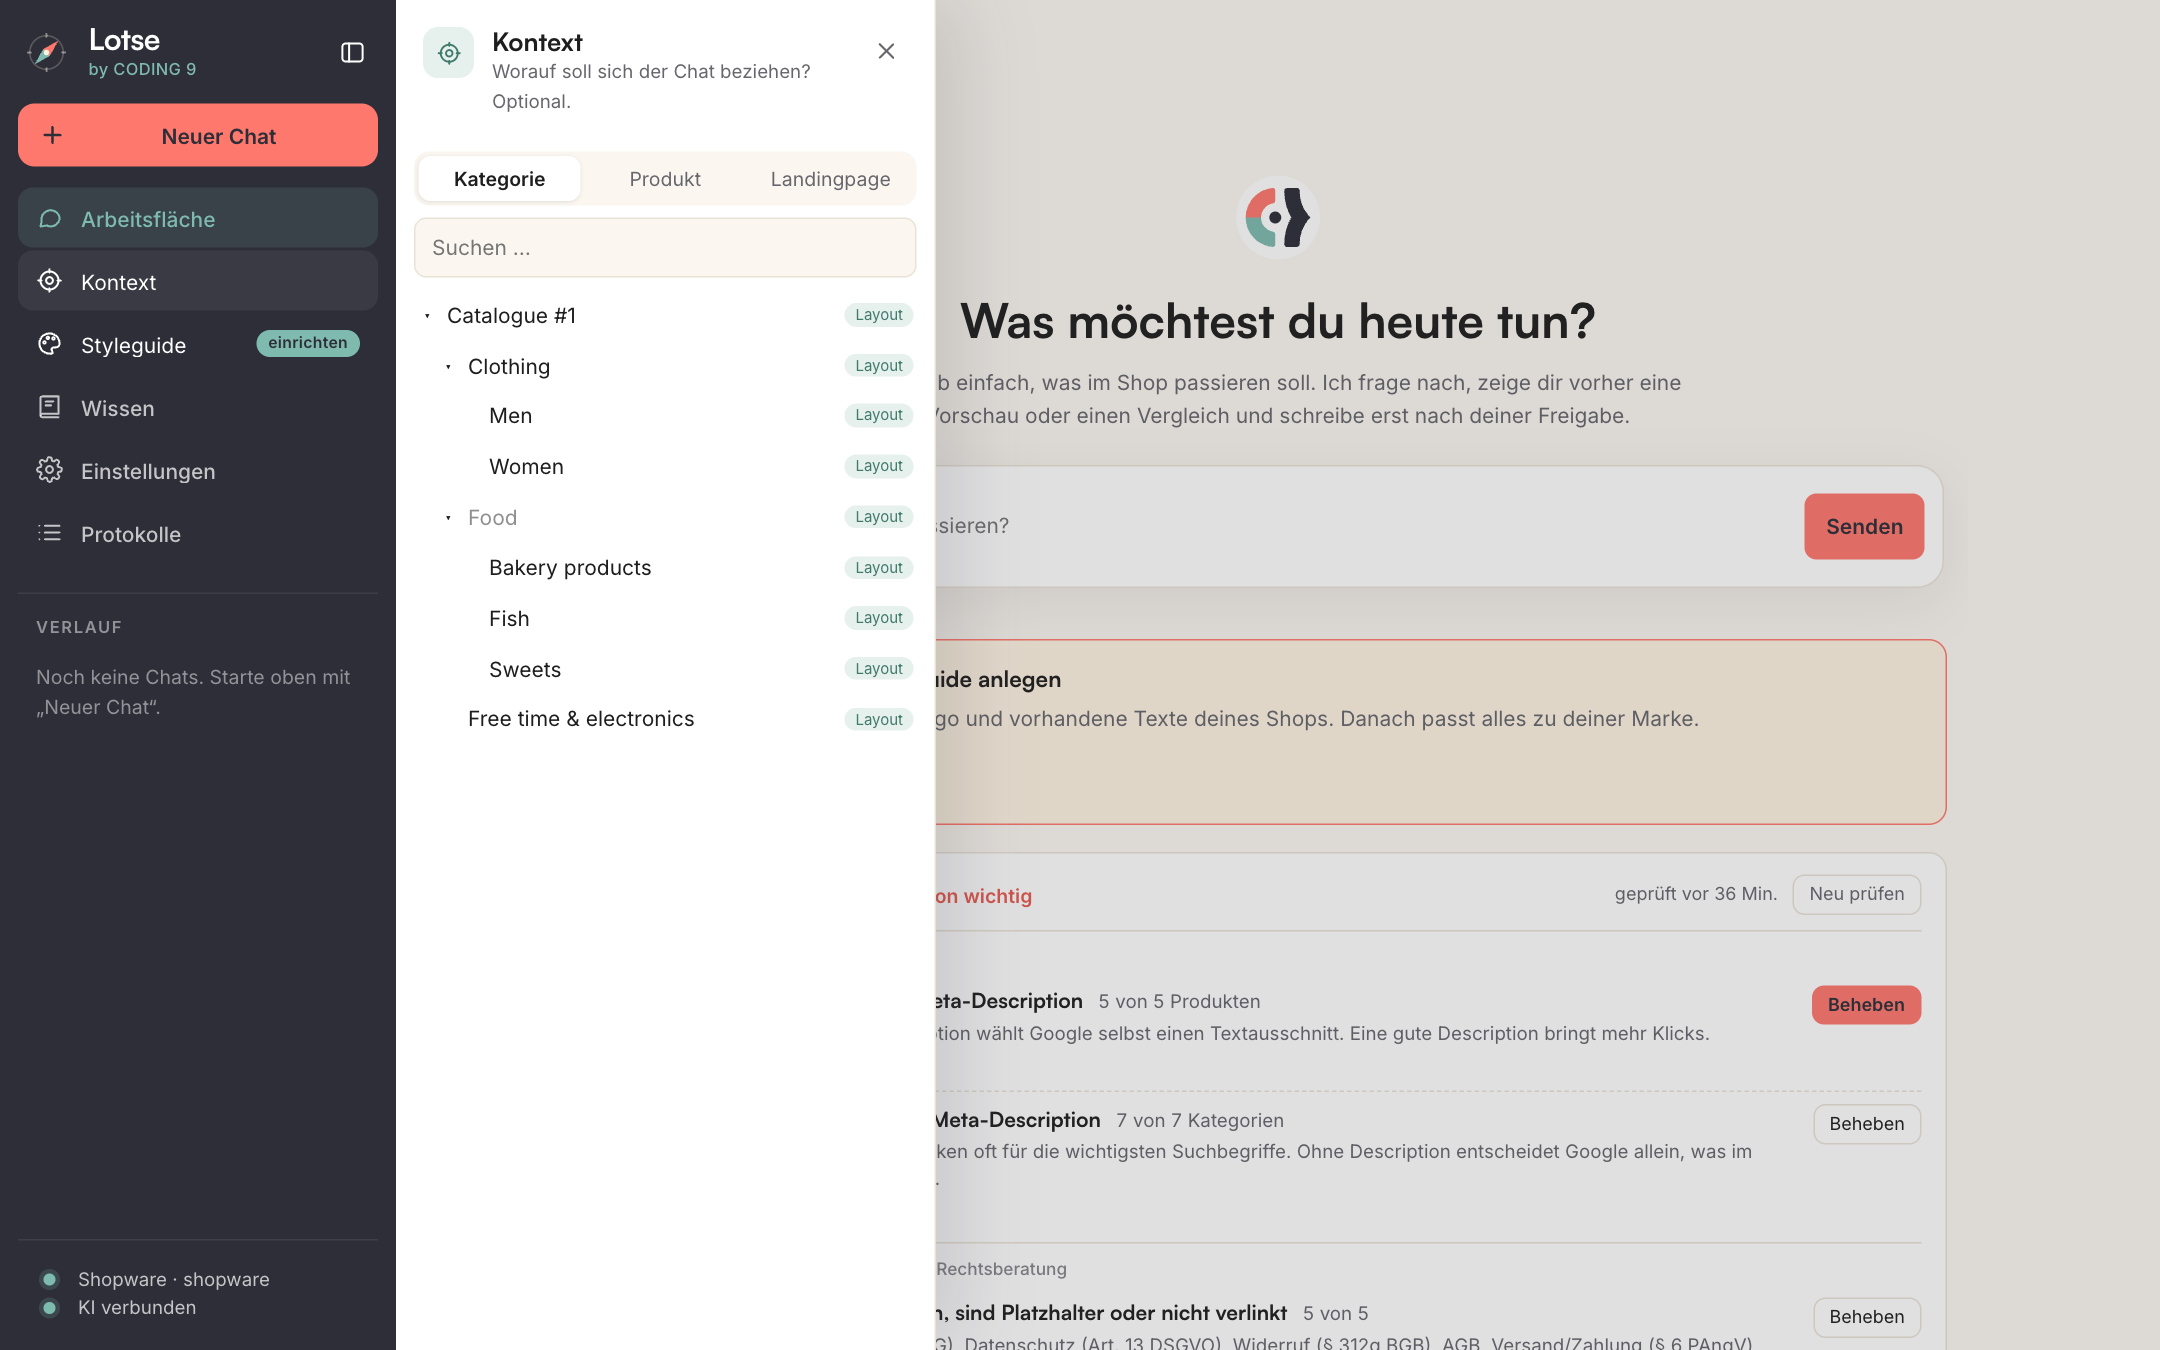
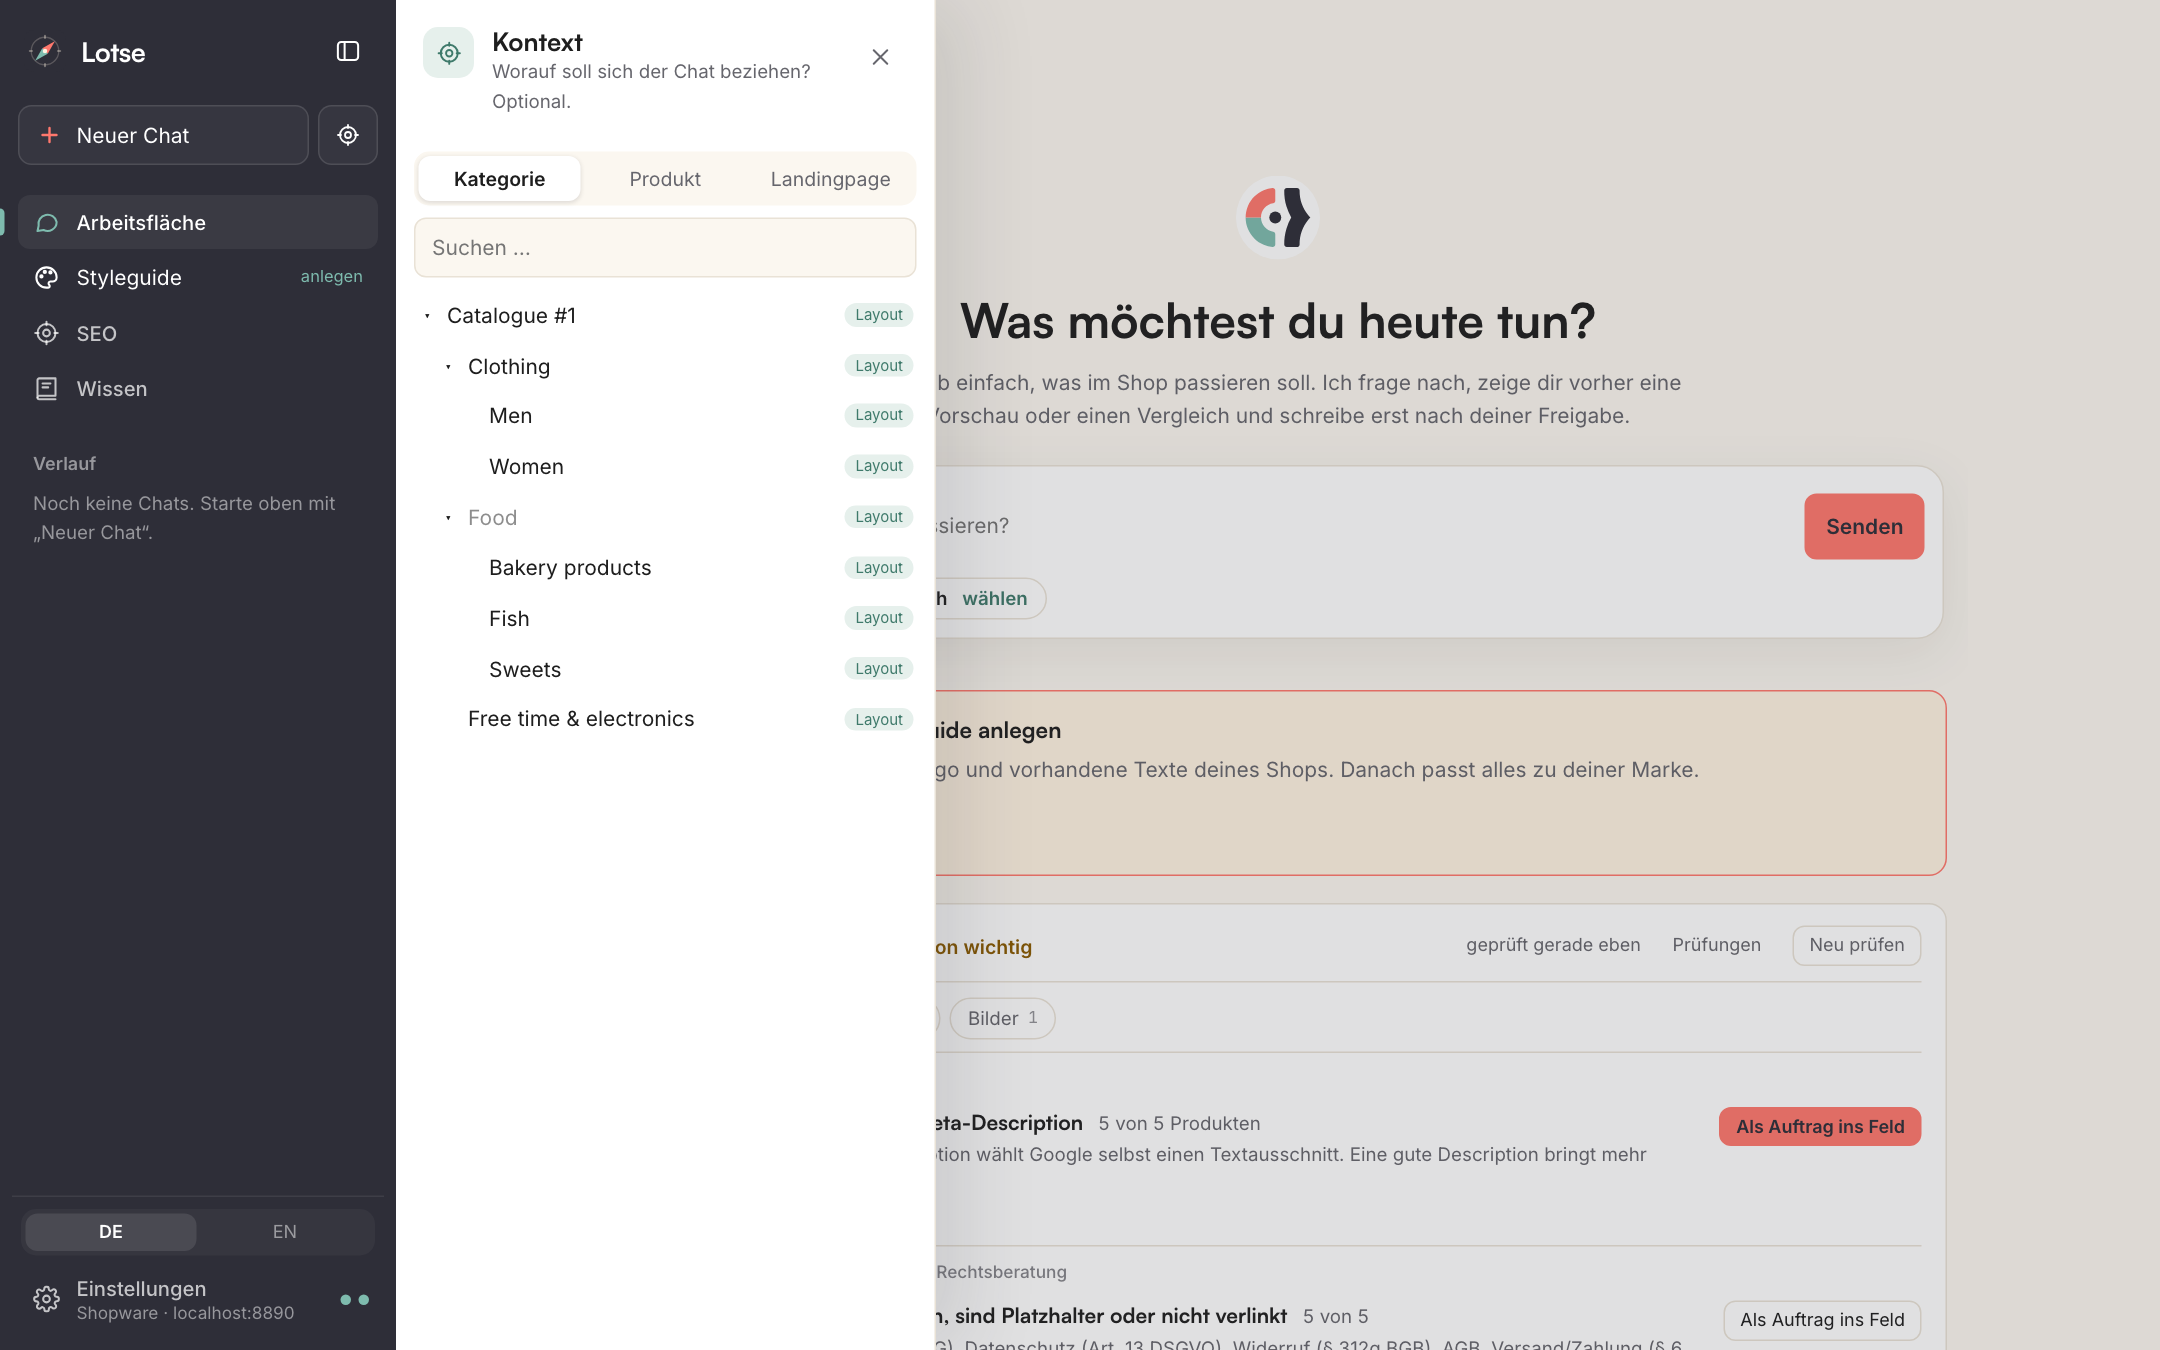
README: SEO-Bereich, Abverkauf, Kostenbremse, ZIP-Karte, neue Screenshots
Screenshots aus einer frischen Lotse-Instanz mit leerem Datenvolume und dem Dockware-Demo-Shop; neu: SEO-Bereich. AGENTS.md: Überschrift, wie sie next dev schreibt.

diff --git a/README.md b/README.md
@@ -13,11 +13,11 @@ Seiten & Einkaufswelten, Preise, Texte & SEO per Chat. Die KI liest nur, geschri
 
 ## Screenshots
 
-| Arbeitsfläche mit Shop-Check | Kontext wählen | KI-Zugriff je Bereich |
-|---|---|---|
-| <img src="docs/screenshots/app.png" alt="Arbeitsfläche" width="300"> | <img src="docs/screenshots/app-context.png" alt="Kontext-Auswahl" width="300"> | <img src="docs/screenshots/ki-zugriff.png" alt="KI-Zugriff: Bereiche des Shops einzeln freigeben" width="300"> |
+| Arbeitsfläche mit Shop-Check | SEO-Bereich | Kontext wählen | KI-Zugriff je Bereich |
+|---|---|---|---|
+| <img src="docs/screenshots/app.png" alt="Arbeitsfläche" width="220"> | <img src="docs/screenshots/seo.png" alt="SEO-Bereich: technische Probleme und offene Hebel mit „Optimieren“" width="220"> | <img src="docs/screenshots/app-context.png" alt="Kontext-Auswahl" width="220"> | <img src="docs/screenshots/ki-zugriff.png" alt="KI-Zugriff: Bereiche des Shops einzeln freigeben" width="220"> |
 
-<sub>Screenshots aus dem Demo-Shop (Dockware). Das Video zeigt einen Beispiel-Entwurf mit fiktiver Marke und eigenen Illustrationen.</sub>
+<sub>Screenshots aus einer frischen Lotse-Instanz mit dem Demo-Shop (Dockware), deutsche Oberfläche. Das Video zeigt einen Beispiel-Entwurf mit fiktiver Marke und eigenen Illustrationen.</sub>
 
 ## Schnellstart (Docker)
 
@@ -124,6 +124,10 @@ Chat statt Formulare. Du schreibst, was passieren soll („Ändere das Layout vo
 - **Chat-Start mit Beispielen**, Rückfragen mit Antwort-Buttons, Verlauf. Optionaler Kontext (Kategorie/Produkt wählen) mit Direktlinks ins Admin/Storefront.
 - **Massenänderungen** (Preise, Streichpreise, Bestand, Aktiv, Texte, SEO) mit serverseitig gerechneten Preisregeln, Warnungen (z. B. −99 %), Zeilen-Auswahl, Audit-Log und Rückgängig.
 - **Produktindividuelle Blöcke** (FAQ): gemeinsames PDP-Layout mit Block `pdp-faq`, Inhalt je Produkt im JSON-Zusatzfeld `aicb_blocks` (mit FAQPage-Schema).
+- **SEO-Bereich**: Liest Search Console und Sistrix, prüft Seiten technisch (noindex, Canonical, Title, H1, strukturierte Daten) und listet, was sich am ehesten lohnt: Suchanfragen kurz vor Seite 1, Seiten, die sich gegenseitig Rankings wegnehmen, Klickverluste, Seiten mit defekten Bildern, Dateien oder Links. „Optimieren“ legt den fertigen Auftrag in den Chat; die **Wirkungsmessung** zeigt danach je Änderung, was sie gebracht hat.
+- **Abverkauf** (standardmäßig aus): Top-Seller und Ladenhüter aus Summen je Produkt, nie aus Kunden oder einzelnen Bestellungen.
+- **Kostenbremse**: Monatsbudget für Claude; Hinweis im Chat ab 80 %, ist es erreicht, startet keine neue Runde.
+- **Internetrecherche** (standardmäßig aus): Die KI schlägt auf Wunsch öffentliche Seiten nach, etwa Datenblätter von Herstellern, und nennt die Quelle.
 - **Styleguide-Onboarding**: Die KI analysiert Theme-Konfiguration, Storefront-CSS, Logo und echte Texte → gespeichert in der Datenbank. Wirkt auf Texte, Farben, Vorschau und die CSS-Variablen (`--sg-*`) in Custom-HTML.
 - **Layout mit Bereichswahl** (Shopware): ein Layout für eine Kategorie, einzelne Produkte, alle Produkte einer Kategorie oder den ganzen Shop. Lotse fragt vorher mit echten Zahlen, die Freigabe zeigt, wie viele Seiten ein eigenes Layout verlieren, und Rückgängig stellt jede Seite einzeln wieder her.
 - **Entwurf auf der echten Seite**: Kopf, Fuß, Theme, Kaufbox und Produktliste der Zielseite bleiben, nur der Inhalt wird durch den Entwurf ersetzt (Shopware: Einkaufswelt; Shopify, Magento, OpenMage: das HTML, das veröffentlicht wird, im echten Theme). Ohne genanntes Ziel wählt Lotse ein echtes Produkt bzw. eine Kategorie.
@@ -149,8 +153,8 @@ Für Code statt Shop-Daten: Eine Sandbox ist eine **Entwicklungsumgebung mit Git
 - **Gespeicherte Umgebungen:** einmal einrichten (Projekt, Datenbank, Einstellungen), dann für jeden Auftrag mit einem Klick eine frische Sandbox daraus starten – mehrere nebeneinander, vorher geprüft, ohne geheime Werte; oder der Demo-Shop ohne Projekt.
 - **Konsole:** eine eigene Shell im Container (`bin/console`, Logs, Composer) – nur für Menschen, nicht für die KI.
 - **Aus dem Container übernehmen:** was in der Konsole oder per Befehl der KI im Container entsteht (z. B. `bin/console plugin:create`, `composer require`), vergleichen und mit denselben Prüfungen wie ein Commit ins Projekt holen.
-- **Veröffentlichen:** nur per Klick, als Pull Request auf einen eigenen Branch `lotse/…` oder als Plugin-ZIP zum Hochladen in den Shop. Rückmeldungen zum Pull Request gibst du mit einem Klick an die KI weiter.
-- **Voraussetzungen:** standardmäßig aus (Einstellungen → Sandbox). Braucht Docker-Zugriff – das ist Root-Zugriff auf den Host – und auf einem Server `LOTSE_PASSWORD`. Die Container sind offline, Internet gibt es nur nach Freigabe.
+- **Veröffentlichen:** nur per Klick, als Pull Request auf einen eigenen Branch `lotse/…` oder als Plugin-ZIP zum Hochladen in den Shop. Die KI kann das ZIP per Karte im Chat vorschlagen („gib mir das Plugin als ZIP für den Live-Shop“); geprüft (`composer.json`) und heruntergeladen wird erst mit deinem Klick. Rückmeldungen zum Pull Request gibst du mit einem Klick an die KI weiter.
+- **Voraussetzungen:** standardmäßig aus (Einstellungen → Sandbox). Braucht Docker-Zugriff – das ist Root-Zugriff auf den Host – und auf einem Server `LOTSE_PASSWORD`. Mit `make sandbox-up` startet Lotse im Docker-Betrieb mit Socket-Proxy, internem Netz und einem eigenen Seccomp-Profil (`docker/seccomp-codex.json`), das Codex' Dateischreiben erlaubt. Die Container sind offline, Internet gibt es nur nach Freigabe.
 
 Einrichtung: [Sandbox Coding aktivieren](docs/self-hosting.md#sandbox-coding-aktivieren) · Bedienung und alle Fälle: [Benutzerhandbuch](docs/benutzerhandbuch.md#sandbox-coding-sandbox-im-chat) · Sicherheitsmodell: [SECURITY.md](SECURITY.md)
 

diff --git a/README.en.md b/README.en.md
@@ -13,11 +13,11 @@ Pages & shopping experiences, prices, copy & SEO via chat. The AI only reads; no
 
 ## Screenshots
 
-| Workspace with shop check | Choose context | AI access per area |
-|---|---|---|
-| <img src="docs/screenshots/app.png" alt="Workspace" width="300"> | <img src="docs/screenshots/app-context.png" alt="Context selection" width="300"> | <img src="docs/screenshots/ki-zugriff.png" alt="AI access: enable shop areas individually" width="300"> |
+| Workspace with shop check | SEO area | Choose context | AI access per area |
+|---|---|---|---|
+| <img src="docs/screenshots/app.png" alt="Workspace" width="220"> | <img src="docs/screenshots/seo.png" alt="SEO area: technical problems and open levers with “Optimise”" width="220"> | <img src="docs/screenshots/app-context.png" alt="Context selection" width="220"> | <img src="docs/screenshots/ki-zugriff.png" alt="AI access: enable shop areas individually" width="220"> |
 
-<sub>Screenshots from the demo shop (Dockware), German UI. The video shows a sample draft with a fictional brand and custom illustrations.</sub>
+<sub>Screenshots from a fresh Lotse instance with the demo shop (Dockware), German UI. The video shows a sample draft with a fictional brand and custom illustrations.</sub>
 
 ## Quick start (Docker)
 
@@ -124,6 +124,10 @@ Chat instead of forms. You write what should happen ("Change the layout of produ
 - **Chat start with examples**, follow-up questions with answer buttons, history. Optional context (choose category/product) with direct links to the Admin/Storefront.
 - **Bulk changes** (prices, list prices, stock, active, copy, SEO) with server-side price rules, warnings (e.g. −99%), row selection, audit log and undo.
 - **Per-product blocks** (FAQ): shared PDP layout with block `pdp-faq`, content per product in the JSON custom field `aicb_blocks` (with FAQPage schema).
+- **SEO area**: reads Search Console and Sistrix, checks pages technically (noindex, canonical, title, H1, structured data) and lists what is most worth doing: queries just short of page 1, pages that take rankings from each other, click losses, pages with broken images, files or links. “Optimise” puts the finished task into the chat; **impact measurement** then shows per change what it achieved.
+- **Sales** (off by default): top sellers and slow movers from totals per product, never from customers or single orders.
+- **Cost brake**: monthly budget for Claude; a notice in the chat from 80 %, once it is reached no new turn starts.
+- **Internet research** (off by default): on request the AI looks up public pages, such as manufacturer datasheets, and names the source.
 - **Style guide onboarding**: the AI analyzes theme configuration, storefront CSS, logo and real copy → stored in the database. Applies to copy, colors, preview and the CSS variables (`--sg-*`) in custom HTML.
 - **Layout with scope selection** (Shopware): one layout for a category, individual products, all products in a category or the whole shop. Lotse asks beforehand with real numbers, the approval shows how many pages will lose their own layout, and undo restores each page individually.
 - **Draft on the real page**: header, footer, theme, buy box and product listing of the target page stay; only the content is replaced by the draft (Shopware: shopping experience; Shopify, Magento, OpenMage: the HTML that will be published, in the real theme). Without a named target, Lotse picks a real product or category.
@@ -149,8 +153,8 @@ For code instead of shop data: a sandbox is a **development environment with git
 - **Saved environments:** set up once (project, database, settings), then start a fresh sandbox from it for every job with one click – several side by side, checked first, no secret values; or the demo shop without a project.
 - **Console:** a shell of your own in the container (`bin/console`, logs, Composer) – for humans only, not for the AI.
 - **Take over from the container:** compare what comes into being in the console or through an AI command in the container (e.g. `bin/console plugin:create`, `composer require`) and bring it into the project with the same checks as a commit.
-- **Publish:** only by click, as a pull request on a branch of its own `lotse/…` or as a plugin ZIP to upload to the shop. You hand pull request feedback to the AI with one click.
-- **Requirements:** off by default (Settings → Sandbox). Needs Docker access – that is root access to the host – and `LOTSE_PASSWORD` on a server. The containers are offline; internet only after approval.
+- **Publish:** only by click, as a pull request on a branch of its own `lotse/…` or as a plugin ZIP to upload to the shop. The AI can propose the ZIP with a card in the chat (“give me the plugin as a ZIP for the live shop”); `composer.json` is checked and the ZIP is downloaded only when you click. You hand pull request feedback to the AI with one click.
+- **Requirements:** off by default (Settings → Sandbox). Needs Docker access – that is root access to the host – and `LOTSE_PASSWORD` on a server. The containers are offline; internet only after approval. With `make sandbox-up` Lotse starts in Docker mode with a socket proxy, an internal network and its own seccomp profile (`docker/seccomp-codex.json`) that lets Codex write files.
 
 Setup: [Enable Sandbox Coding](docs/en/self-hosting.md#enable-sandbox-coding) · Usage and every case: [user guide](docs/en/user-guide.md#sandbox-coding-a-sandbox-in-the-chat) · Security model: [SECURITY.en.md](SECURITY.en.md)
 

diff --git a/AGENTS.md b/AGENTS.md
@@ -1,6 +1,6 @@
 <!-- BEGIN:nextjs-agent-rules -->
 
-# This is NOT the Next.js you know
+## This is NOT the Next.js you know
 
 This version has breaking changes — APIs, conventions, and file structure may all differ from your training data. Read the relevant guide in `node_modules/next/dist/docs/` (resolved from this file's directory; in monorepos the `next` package may not be visible from the repo root) before writing any code. Heed deprecation notices.
 
